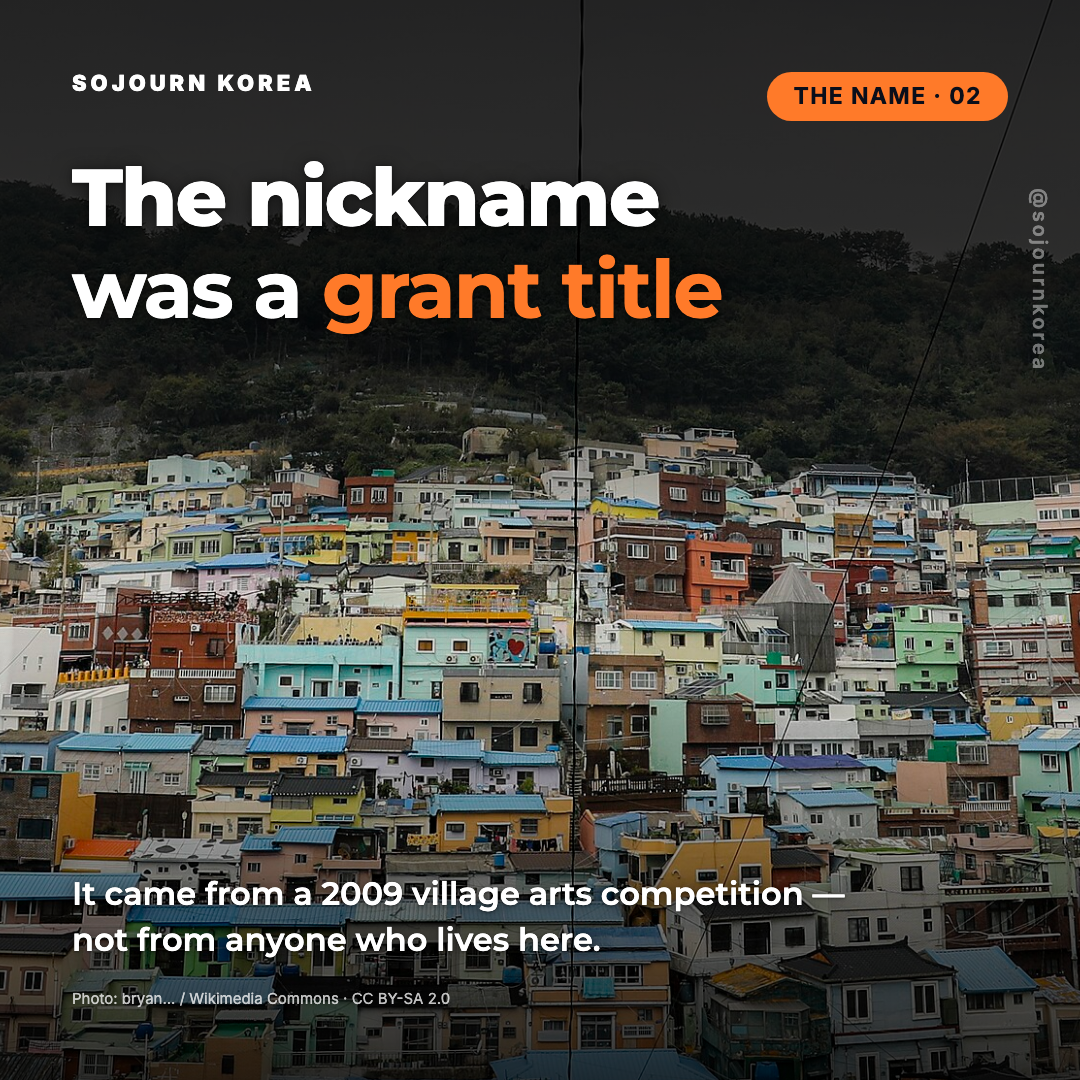
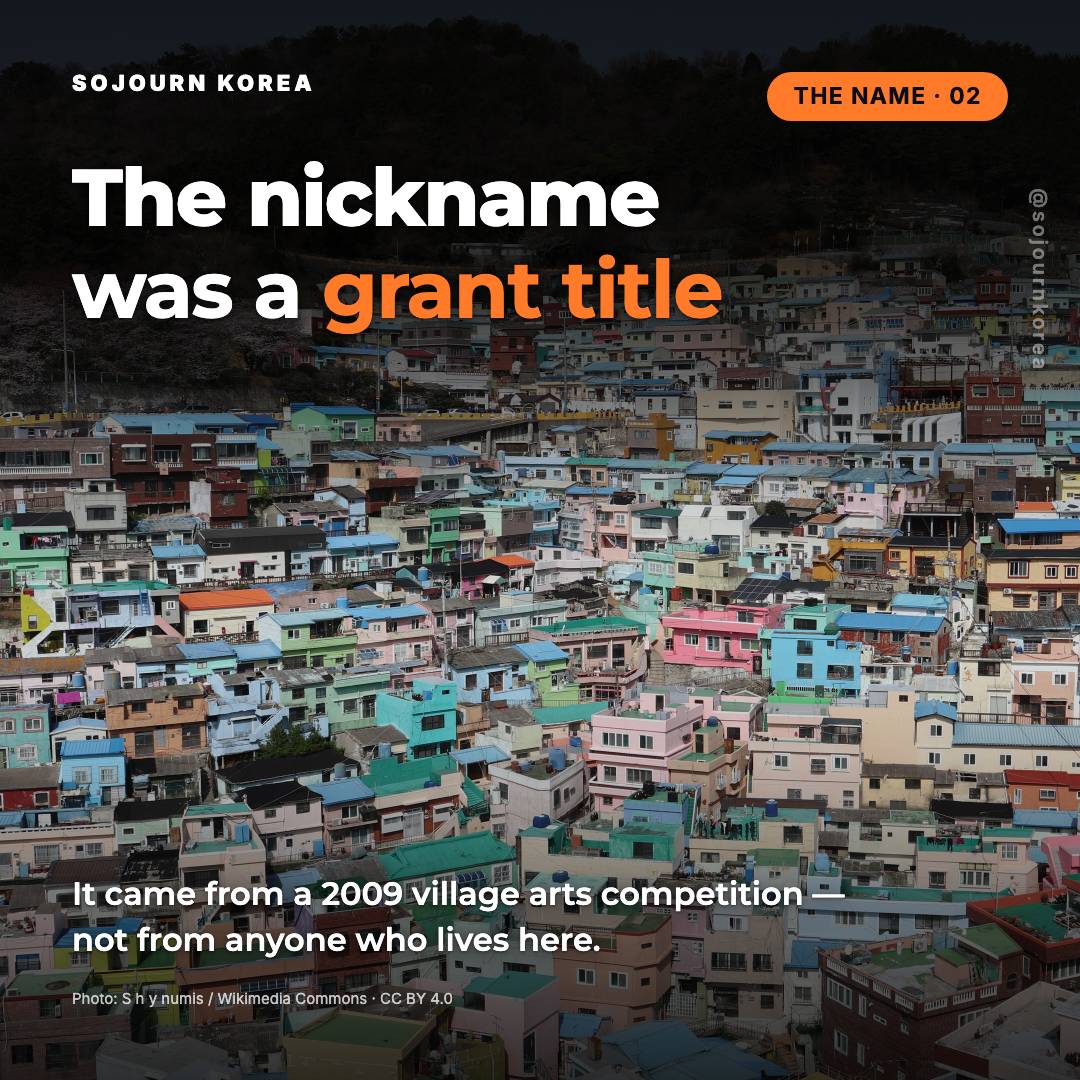
fix(cards): QA 반려 3건 교정 + 배경 사진 전량을 비-SA 라이선스로 교체
두 갈래 작업이 같은 파일에서 만났다. 문구 수정은 이 세션이, 사진 교체는 다른
세션이 했다. 문구가 HTML에 남아 있는 채로 재렌더됐으므로 결과에 둘 다 들어 있다.

## QA 3회차 반려 (output/qa_report.md)

- **B1 (BLOCKER)** 카드 06 `Dropped at the top. Collected at the bottom.` →
  `A private car and a day built around you.` 원장이 보증할 수 없는 물류 약속이었다.
  소유자 확인 답변이 "보통 그렇게 하지만 확정된 약속은 아니다"였고, 랜딩 전문에도
  해당 문장이 없다. 원장 facts[5]가 이미 덮는 범위(전용 차량·맞춤 일정) 안으로 물렸다.
  후보 3안 중 사용자가 ①을 골랐다. **원장에는 등재하지 않는다** — 이행을 보증할 수
  있는 것만 담는다.
- **M1 (MAJOR)** 카드 06 URL을 오렌지에서 흰색으로. 액센트는 헤드라인 `top`에 남겨
  1종 규칙을 지킨다. 글자 제거 배경과 대조한 실측: 4.5 미만 면적 **52% → 9%**,
  3.0 미만 22% → 7%. 바로 위 서포트 줄(QA 통과분)이 같은 방식으로 18%이므로 이제
  URL이 그보다 낫다. QA가 제시한 ②(스크림 강화)는 겹치지 않았다.
- **m1 (MINOR)** 카드 03 `No house stands / in front of another` →
  `No house stands / directly in front`. 자사 발행본의 `directly`가 빠져 절대
  주장이 됐고, 지붕이 겹친 사진이 그 문장에 반대 근거를 줬다. 발행본을 그대로 넣으면
  2행째가 936px 박스에 1045px로 넘쳐 3행이 된다 — 세트 6장이 전부 2행이라 크기를
  줄이는 우회 대신 `of another`를 받침 문장에 맡겼다. 사용자 선택.

## B2 — 배경 사진 전량 교체

감천 사진 5장이 전부 CC BY-SA 2.0이라, 타입을 얹은 카드가 2차적저작물이 되어 카드
자체를 CC BY-SA로 배포해야 했다. 상업 마케팅물로 나갈 수 없는 상태였다.

6슬롯을 CC0 1장 + CC BY 4.0 4장 + CC BY 2.0 계열로 교체했다. **동일조건변경허락
사진 0건** — 표기 의무만 남고 6장 전부 크레딧이 렌더된다.

카드 05는 사진이 계단을 담게 됐지만 오늘 바꾼 문구를 되돌리지 않았다.
`Even the easy way is uphill` 은 계단의 부재가 아니라 경사를 주장하므로 계단이
프레임에 있어도 근거가 되고, 옛 문구와 달리 사진 교체를 견딘다.

## 검증

- 렌더 exit 0 · ISSUES 0건. 첫 시도는 `fonts.googleapis.com` 이 `ERR_NETWORK_CHANGED`
  로 실패해 exit 1이 났다 — 폴백 폰트 결과는 비교 대상이 아니므로 재시도했다.
[…]

diff --git a/_workspace/03_cards.html b/_workspace/03_cards.html
@@ -22,8 +22,10 @@
      `2026-08-04-gamcheon-culture-village.md`, which carries the sourcing. Under
      the 2026-08-04 split — place facts get attribution, service facts come from
      the ledger — these are place facts, and the blog is where they are sourced.
-     The one service claim (dropped at the top, collected at the bottom) is on
-     that same page and is backed by facts[5] (private car, custom itinerary).
+     The one service claim, on card 06, goes no further than facts[5] — private
+     car, custom itinerary. It used to say more (drop-off at the top, pick-up at
+     the bottom); QA 3회차 B1 removed it, because being published on our own blog
+     is not the same as being a commitment the ledger will stand behind.
 
      Deliberately NOT on these cards: the free entry, the information centre's
      opening hours, the stamp map. All true and all on the blog, but a card has
@@ -31,12 +33,23 @@
      hours safe to state, and those are the exact claims that get a tour operator
      into trouble when they change.
 
-     PHOTOS. All five are CC BY-SA 2.0 by Flickr user "bryan..." — that really is
-     the account's display name, verified against the Commons file pages, not a
-     truncation. Attribution is satisfiable and is on every card. What remains is
-     share-alike: laying type over these photographs makes the card an adaptation,
-     so the card itself would have to go out under CC BY-SA 2.0. That is a
-     decision about the deliverable, not a defect in the file.
+     PHOTOS. Replaced 2026-08-07. The set used to run on five CC BY-SA 2.0 files,
+     and share-alike was the blocker: laying type over a photograph makes the card
+     an adaptation, so the card itself would have had to go out under CC BY-SA 2.0.
+     Nothing about the files was wrong — attribution was satisfiable and rendered —
+     but a commercial card cannot carry that obligation. Every background is now
+     CC BY or CC0, where attribution is the whole of the duty and it does not
+     travel into the adaptation. Credits stay on all six anyway.
+
+     Four of the six are tight crops from 5328x4000 originals rather than whole
+     frames. That was not a style choice: the SA-free pool for Gamcheon on Commons
+     is 20 files and all but one are hillside overviews, so the cards that have to
+     show something specific — front doors on 04, stepped terraces on 03 — only
+     exist inside a crop. Masters stay on Commons; the crop parameters are in the
+     manifest note for each file.
+
+     These are a stopgap. Own photography replaces them when it arrives, and at
+     that point the crop constraint above disappears too.
 -->
 </head>
 <body>
@@ -44,7 +57,7 @@
 <!-- ============ 01 · COVER ============ -->
 <section class="card bg-ink lay-simple">
   <div class="photo photo-bg scrim-soft">
-    <img src="../assets/photos/place/gamcheon-44835393715.jpg" data-photo="place/gamcheon-44835393715.jpg" data-slot="place" alt="Pastel houses stacked in stepped rows up the Gamcheon hillside">
+    <img src="../assets/photos/place/gamcheon-sky-vista.jpg" data-photo="place/gamcheon-sky-vista.jpg" data-slot="place" alt="Gamcheon Culture Village under open sky, the ridge line and the harbour beyond">
   </div>
   <div class="lockup"><span class="mark">SOJOURN KOREA</span></div>
   <span class="badge">Busan · 01</span>
@@ -53,7 +66,7 @@
 
   <p class="support">Busan's painted hillside — and the part the photographs leave out.</p>
   <p class="watermark" data-contrast-exempt="watermark, deliberately low contrast">@sojournkorea</p>
-  <p class="photo-credit">Photo: bryan... / Wikimedia Commons · CC BY-SA 2.0</p>
+  <p class="photo-credit">Photo: VaneTrz20 / Wikimedia Commons · CC0</p>
 </section>
 
 <!-- ============ 02 · THE NAME ============
@@ -63,10 +76,13 @@
 -->
 <section class="card bg-ink lay-simple">
   <div class="photo photo-bg scrim-soft">
-    <!-- The source is 3:2 and the village sits in its bottom 45%, so a plain
-         square cover crop is two thirds overcast sky. Scaled and pulled up to
-         put the hillside under the headline. -->
-    <img src="../assets/photos/place/gamcheon-hero-src.jpg" data-photo="place/gamcheon-hero-src.jpg" data-slot="place" alt="Gamcheon Culture Village stacked across the valley" style="transform:scale(2.3) translateY(-19%)">
+    <!-- Not the blossom crop. That frame puts a pale cherry-blossom band exactly
+         where the headline sits, and "grant title" in --orange measured 2.06:1 at
+         worst with 63% of its footprint under 4.5 — the weakest accent in the set
+         by a wide margin. Orange carries a mid luminance, so unlike white it needs
+         the background to be genuinely dark, not merely scrimmed. This crop runs a
+         wooded ridge across the top instead. -->
+    <img src="../assets/photos/place/gamcheon-valley-hill.jpg" data-photo="place/gamcheon-valley-hill.jpg" data-slot="place" alt="Gamcheon Culture Village filling the valley beneath a wooded ridge">
   </div>
   <div class="lockup"><span class="mark">SOJOURN KOREA</span></div>
   <span class="badge">The name · 02</span>
@@ -77,22 +93,34 @@
 
   <p class="support">It came from a 2009 village arts competition — not from anyone who lives here.</p>
   <p class="watermark" data-contrast-exempt="watermark, deliberately low contrast">@sojournkorea</p>
-  <p class="photo-credit">Photo: bryan... / Wikimedia Commons · CC BY-SA 2.0</p>
+  <p class="photo-credit">Photo: S h y numis / Wikimedia Commons · CC BY 4.0</p>
 </section>
 
 <!-- ============ 03 · THE DESIGN ============ -->
 <section class="card bg-ink lay-simple">
   <div class="photo photo-bg scrim-soft">
-    <img src="../assets/photos/place/gamcheon-31877408798.jpg" data-photo="place/gamcheon-31877408798.jpg" data-slot="place" alt="Gamcheon rooftops seen from inside the village, water tanks and wires">
+    <img src="../assets/photos/place/gamcheon-terraces.jpg" data-photo="place/gamcheon-terraces.jpg" data-slot="place" alt="Stepped terraces in Gamcheon, each house on its own level with the row above clear of its light">
   </div>
   <div class="lockup"><span class="mark">SOJOURN KOREA</span></div>
   <span class="badge">The design · 03</span>
 
-  <h2 class="h-simple"><span class="hi">No house</span> stands<br><span class="soft">in front of another</span></h2>
+  <!-- QA 3회차 m1. Our own published sentence is "no house stands DIRECTLY in
+       front of another", and the card had dropped the qualifier, which turns a
+       description of the plan into an absolute. The photograph under it is
+       densely overlapping roofs, so read literally the picture argues with the
+       line — the same failure card 05 had, milder.
+       The published wording will not fit: "directly in front of another" measures
+       ~1045px against the 936px headline box and folds to a third line, and all
+       six cards are two. Shrinking the type would break the set's rhythm, so the
+       phrase was cut instead — "stands directly" is kept verbatim and "of
+       another" is carried by the support line below, which states the rule in
+       full. User chose this over "No house is directly / in front of another".
+       Measured after the change: 685px / 623px, two lines. -->
+  <h2 class="h-simple"><span class="hi">No house</span> stands<br><span class="soft">directly in front</span></h2>
 
   <p class="support">The stepped rows are the whole plan. Every home keeps its light and its view of the water.</p>
   <p class="watermark" data-contrast-exempt="watermark, deliberately low contrast">@sojournkorea</p>
-  <p class="photo-credit">Photo: bryan... / Wikimedia Commons · CC BY-SA 2.0</p>
+  <p class="photo-credit">Photo: S h y numis / Wikimedia Commons · CC BY 4.0</p>
 </section>
 
 <!-- ============ 04 · PEOPLE LIVE HERE ============
@@ -102,7 +130,7 @@
 -->
 <section class="card bg-ink lay-simple">
   <div class="photo photo-bg scrim-soft">
-    <img src="../assets/photos/place/gamcheon-30809164987.jpg" data-photo="place/gamcheon-30809164987.jpg" data-slot="place" alt="A narrow painted alley in Gamcheon with a mural and steps climbing away">
+    <img src="../assets/photos/place/gamcheon-front-doors.jpg" data-photo="place/gamcheon-front-doors.jpg" data-slot="place" alt="Gamcheon houses at close range — front doors, barred windows, laundry on a line, potted plants">
   </div>
   <div class="lockup"><span class="mark">SOJOURN KOREA</span></div>
   <span class="badge">Please note · 04</span>
@@ -111,44 +139,44 @@
 
   <p class="support">People live in these alleys. Keep your voice down and stay out of the private lanes.</p>
   <p class="watermark" data-contrast-exempt="watermark, deliberately low contrast">@sojournkorea</p>
-  <p class="photo-credit">Photo: bryan... / Wikimedia Commons · CC BY-SA 2.0</p>
+  <p class="photo-credit">Photo: S h y numis / Wikimedia Commons · CC BY 4.0</p>
 </section>
 
 <!-- ============ 05 · BEFORE YOU GO ============ -->
 <section class="card bg-ink lay-simple">
   <div class="photo photo-bg scrim-soft">
-    <!-- Shifted left so the crop lands on the path and the retaining wall rather
-         than the blue roof that fills the centre of the frame. The card is about
-         the climb; it has to show ground you walk on. -->
-    <img src="../assets/photos/place/gamcheon-30809161817.jpg" data-photo="place/gamcheon-30809161817.jpg" data-slot="place" alt="A signed ridge footpath above Gamcheon with roofs below and the harbour beyond" style="transform:scale(1.5) translateX(-16%)">
+    <img src="../assets/photos/place/gamcheon-stairs-slope.jpg" data-photo="place/gamcheon-stairs-slope.jpg" data-slot="place" alt="A stairway climbing between Gamcheon houses, homes stacked on the slope above and below">
   </div>
   <div class="lockup"><span class="mark">SOJOURN KOREA</span></div>
   <span class="badge">Before you go · 05</span>
 
-  <!-- Was "It is stairs, end to end" — a line that is published on the blog and
-       true of the village, but this photograph is the exception to it. The
-       blog's own caption on this exact file reads "Signed paths run along the
-       ridge; almost everything else is stairs," and the frame holds no steps at
-       all: a graded path between a retaining wall and a roof. The headline was
-       being contradicted by the picture under it. The new line keeps the slot's
-       job — this is the card that asks the reader to prepare — by absorbing what
-       the photo shows rather than arguing with it, and it still lands on the
-       support line below. -->
+  <!-- Was "It is stairs, end to end". That line is published on the blog and true
+       of the village, but the photograph this card used to carry was the exception
+       to it — a graded ridge path with no steps in frame — so the picture argued
+       with the headline and the headline lost (2026-08-06).
+       The photograph has since changed again: the CC BY-SA source was replaced for
+       licensing reasons and the new crop does hold a stairway. That does not send
+       the old line back. "Even the easy way is uphill" claims the slope, not the
+       absence of steps, so a stairway in frame is evidence for it either way —
+       and this wording survives a photo swap, which the other one did not. -->
+  <!-- ⚠ 이 카드의 사진은 임시다. 자사 실사진이 들어오면 교체 대상. -->
   <h2 class="h-simple">Even the easy way<br><span class="soft">is <span class="hi">uphill</span></span></h2>
 
   <p class="support">There is no flat version of Gamcheon. Come ready to climb.</p>
   <p class="watermark" data-contrast-exempt="watermark, deliberately low contrast">@sojournkorea</p>
-  <p class="photo-credit">Photo: bryan... / Wikimedia Commons · CC BY-SA 2.0</p>
+  <p class="photo-credit">Photo: S h y numis / Wikimedia Commons · CC BY 4.0</p>
 </section>
 
 <!-- ============ 06 · HOW WE HELP ============
-     The offer, once. Same wording as the blog's closing section, which is what
-     makes it a claim we already stand behind rather than a new promise written
-     to fill a sixth card.
+     The offer, once. Held to the ledger rather than to the blog's closing
+     section: a place fact is safe once we have published it with its sourcing,
+     but a service sentence is only safe if the ledger will stand behind the
+     performance. Those are different tests, and card 06 is the card where the
+     second one applies.
 -->
 <section class="card bg-ink lay-simple">
   <div class="photo photo-bg scrim-soft">
-    <img src="../assets/photos/place/gamcheon-hero-src.jpg" data-photo="place/gamcheon-hero-src.jpg" data-slot="place" alt="Gamcheon Culture Village on its hillside" style="transform:scale(2.4) translate(9%,-13%)">
+    <img src="../assets/photos/place/gamcheon-village-wide.jpg" data-photo="place/gamcheon-village-wide.jpg" data-slot="place" alt="Gamcheon Culture Village filling the hillside across the valley">
   </div>
   <div class="lockup"><span class="mark">SOJOURN KOREA</span></div>
   <span class="badge">With us · 06</span>
@@ -158,13 +186,25 @@
   <!-- Four lines of support copy was the longest block in the set and undid the
        quiet the rest of it buys. The blog carries the full reasoning; a card
        carries the shape of it. -->
-  <!-- Shortened again: at 32px the previous wording wrapped and left "bottom."
-       alone on a line, and an orphan is the one thing a two-line block cannot
-       afford. The URL takes the accent — on the only card asking for an action,
-       the accent should be on the action. -->
-  <p class="support">Dropped at the top. Collected at the bottom.<br><span class="hi"><strong>www.sojournkorea.net/private-tour</strong></span></p>
+  <!-- QA 3회차 B1. The line here was "Dropped at the top. Collected at the
+       bottom." — a logistics promise stated flat. The ledger does not carry it,
+       the landing page does not say it, and the ledger's owner, asked directly,
+       answered that it is what usually happens but not a committed arrangement:
+       it moves with the schedule, the weather and the vehicle. A tour is actual
+       performance, so a sentence like that is a dispute waiting to happen, and
+       adding it to the ledger was refused by its owner. The replacement stays
+       inside what facts[5] already covers — private car, custom itinerary — and
+       says the thing that is true regardless of how the day is driven.
+       User chose this wording from three candidates.
+
+       And the URL is white here, not accent (QA M1). Set in --orange it landed on
+       a sunlit roof and measured 1.75:1 at worst, with 11% of its footprint under
+       3.0 — the worst contrast in the set, on the one string a reader has to be
+       able to copy. The accent stays on "top" in the headline, so the card still
+       carries exactly one accent phrase. -->
+  <p class="support">A private car and a day built around you.<br><strong>www.sojournkorea.net/private-tour</strong></p>
   <p class="watermark" data-contrast-exempt="watermark, deliberately low contrast">@sojournkorea</p>
-  <p class="photo-credit">Photo: bryan... / Wikimedia Commons · CC BY-SA 2.0</p>
+  <p class="photo-credit">Photo: S h y numis / Wikimedia Commons · CC BY 4.0</p>
 </section>
 
 </body>
